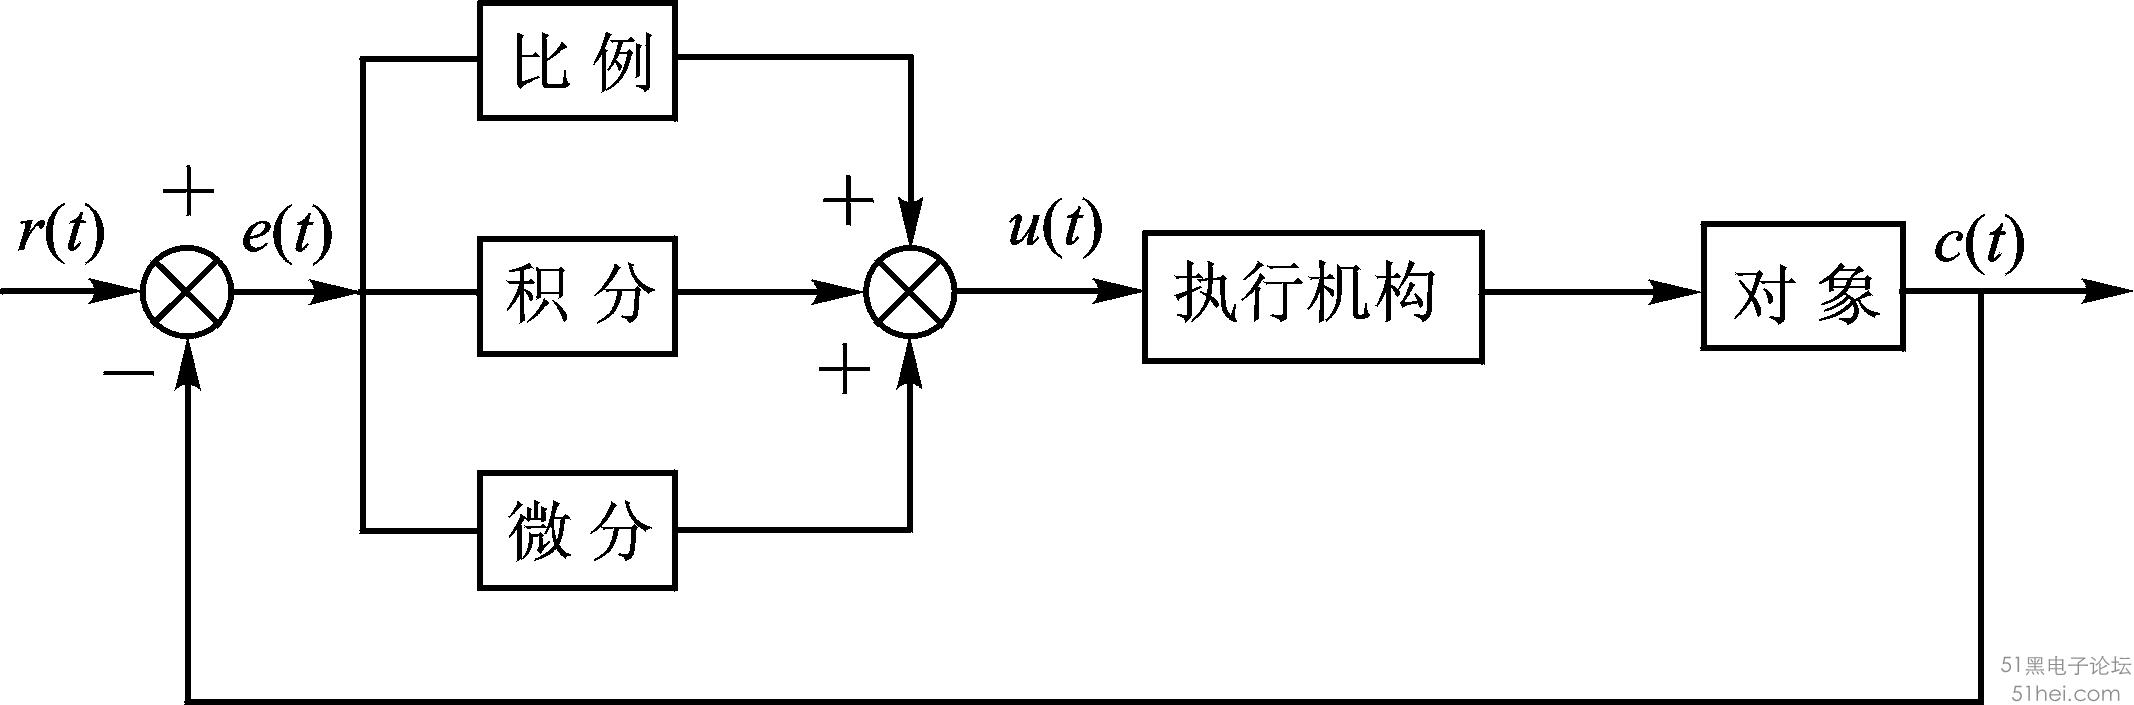
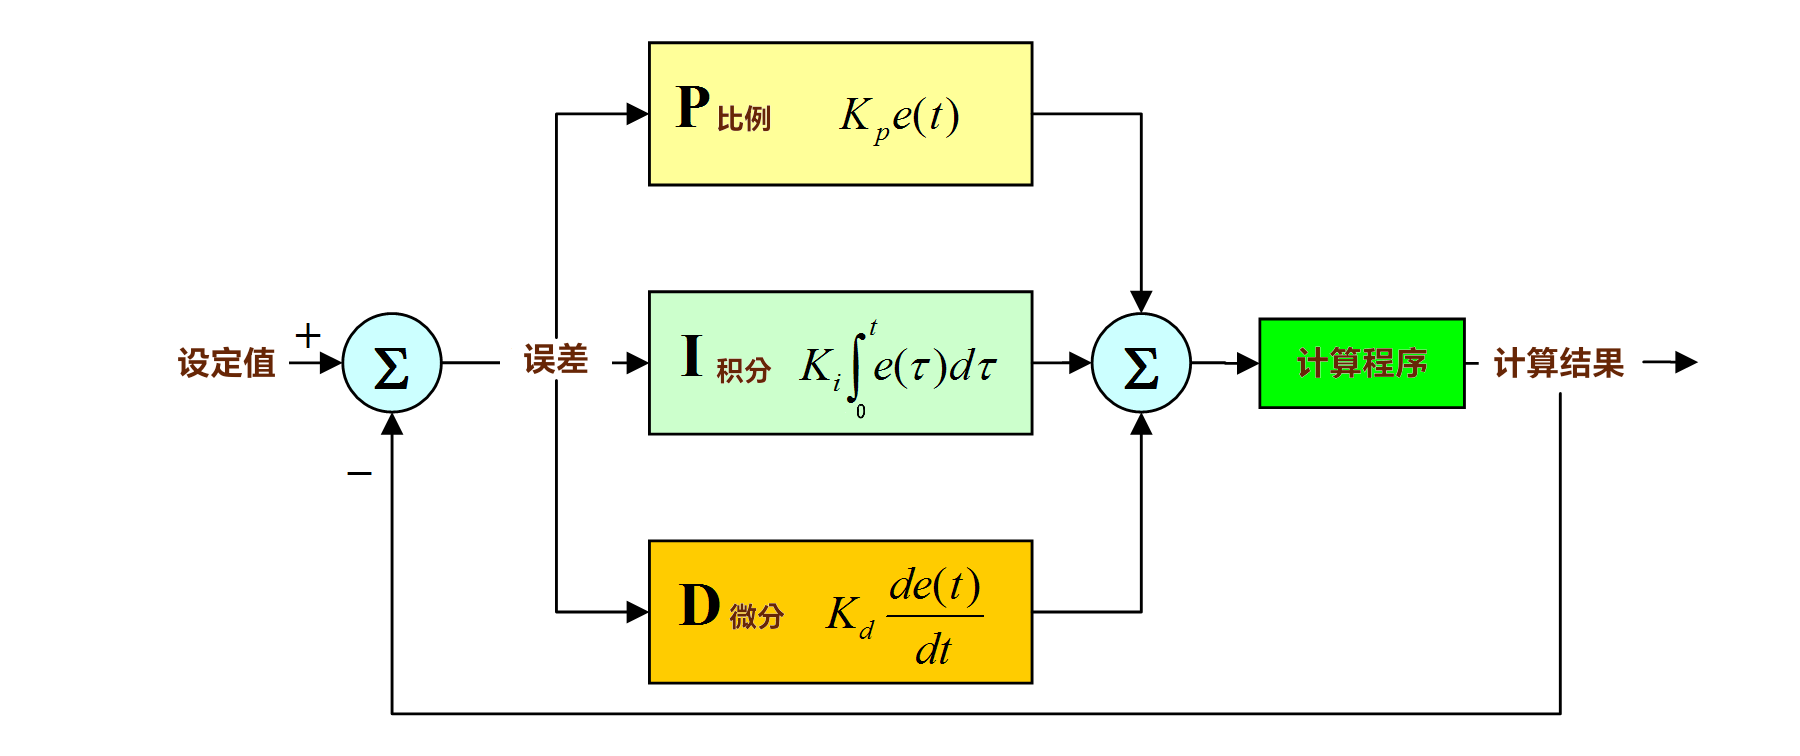
first commit

Changed region(s): [[0.0, 0.0, 1.0, 1.0], [0.0622, 0.2496, 0.0933, 0.2809]]

diff --git a/_posts/2024-10-08-pid.md b/_posts/2024-10-08-pid.md
@@ -41,7 +41,7 @@ Proportion-Integral-Differential (比例-积分-微分) 方法如下
 
 $$
 r(t) -c(t) = e(t) \\
-u(t) = K_p \times e + K_i \times \int_{0}^{\Delta t}e \Delta t + K_d \times \frac {\Delta e}{\Delta t} 
+u(t) = K_p \cdot e(t) + K_i \int_{0}^{t}e(\tau) d \tau + K_d \cdot \frac {de(t)}{dt} 
 $$
 
 （式中的 $t$ 为时间，$e$ 误差 即对时间积分、微分）如果没有误差，即 $e=0$，
@@ -70,7 +70,7 @@ $$
  - 在该 $K_i$ 值的基础上减少 **10**%；
  - 把 $K_d$ 值从 $0$ 开始慢慢增大，观察压力的反应速度是否在要求内。
 
- ![Alt pid](../assets/img/esp/pidcurve.gif)
+![Alt pid](../assets/img/esp/pidcurve.gif)
 
 
 ## 数据平滑
@@ -79,7 +79,7 @@ $$
 
 卡尔曼滤波是一种用于状态估计和数据融合的强大数学和统计工具，是一种递归的、最优的状态估计方法，通常用于处理含有噪声的时间序列数据，以估计系统的状态，同时提供估计的不确定性。
 
-![Alt kalman](../assets/img/esp/kalman.gif)
+![Alt kalman](../assets/img/esp/kalman.png)
 
 卡尔曼滤波的主要用途包括：
 
@@ -93,6 +93,43 @@ $$
 卡尔曼滤波基于状态空间模型，其中系统状态通过线性或非线性动态模型演化，并且由观测模型通过传感器观测进行测量。卡尔曼滤波使用贝叶斯估计方法来不断更新系统状态的估计，考虑了过去的状态估计和新的观测数据，以提供最优的状态估计结果。卡尔曼滤波的主要目标是最小化估计误差的方差，从而提供最优的状态估计结果。
 
 卡尔曼滤波有多个变种，包括扩展卡尔曼滤波（Extended Kalman Filter，EKF）和无迹卡尔曼滤波（Unscented Kalman Filter，UKF），用于处理非线性系统。
+
+#### 卡尔曼滤波需要的统计概念
+
+![Alt pid](../assets/img/esp/distribution.png)
+
+
+方差：用于衡量一组数据的离散程度。
+
+$$ \sigma^2 = \frac {\sum (x-\mu)^2}{N}
+$$
+
+
+标准差（Standard Deviation）：是离均差平方的算术平均数的算术平方根。
+
+$$ \sigma = \sqrt {\frac {\sum (x-\mu)^2}{N}}
+$$
+
+协方差（Covariance）：用于衡量两个变量的总体误差。
+ - 如果两个变量的期望值减去结果值
+    - 同一方向，即为正值。 
+    - 不同方向，即为负值。
+
+可以理解为：两个变量在变化过程中是同方向变化？还是反方向变化？同向或反向程度如何？
+
+$$
+\sigma(x,y) = \frac {1}{n-1} \sum_{i=1}^{n}(x_i - \bar{x})(y_i - \bar{y})
+$$
+
+相关系数：是用以反映变量之间相关关系密切程度的统计指标。
+
+$$
+p = \frac {Cov (x,y)}{\sigma_x \sigma_y}
+$$
+
+相关系数是协方差的归一化 (Normalization)， 消除了两个变量量纲/变化幅度不同的影响。单纯反映两个变量在每单位变化的相似程度。
+
+
 
 ### 小波变换（Wavelet Transform）
 
@@ -117,18 +154,42 @@ $$
 
 离散小波变换（DWT）是一种通过滤波和下采样操作将信号分解成不同尺度的方法。DWT通过将信号分解成高频和低频部分，然后继续对低频部分进行分解，从而实现多尺度分析。DWT的计算效率高，适用于实际工程应用。
 
+傅里叶变换 **FFT** 将信号分解为在整个序列中持续存在的振荡。小波变换 **WT** 执行类似的功能，但它们可以将信号分解为空间和时间局部振荡。
+
+小波是一种在时间上局部化的波状振荡；下面提供了一个例子。小波有两个基本属性：尺度和位置。尺度（或膨胀）定义了小波的拉伸或压缩程度。此属性与为波定义的频率有关。位置定义了小波在时间（或空间）中的位置。
+
+
+![Alt wavelet](../assets/img/esp/wt.png)
+
+
+上面表达式中的参数 a 设定了小波的尺度。如果降低它的值，小波看起来会更挤压。这反过来可以捕获高频信息。相反，增加 a 的值将拉伸小波并捕获低频信息。
+
+
+![Alt wavelet](../assets/img/esp/wt1.png)
+
+
+参数 b 定义小波的位置。减小 b 将使小波向左移动。增加 b 将使小波向右移动。位置很重要，因为与波不同，小波仅在短间隔内非零。此外，在分析信号时，不仅对其振荡感兴趣，还对这些振荡发生的位置感兴趣。
+
+![Alt wavelet](../assets/img/esp/wt2.png)
+
+
+基本思想是计算特定尺度和位置的信号中小波的含量。这就是卷积的真正含义。信号与一组不同尺度的小波进行卷积。
+
+如选择一个特定尺度的小波（比如下面的蓝色小波）。然后，将这个小波滑过整个信号（即改变其位置），在每个时间步骤中，将小波与信号相乘。这个乘积的乘积为提供了该特定时间步骤中该小波尺度的系数。然后增加小波尺度（例如红色和绿色小波）并重复该过程。
+
+![Alt wavelet](../assets/img/esp/wt3.gif)
+
+如果要从信号中提取什么特征形状，那么可以选择多种小波来最好地匹配该形状。
+
 ### Savitzky-Golay 滤波器
 
-Savitzky-Golay滤波是一种信号处理技术，用于对离散数据序列进行平滑和去噪。它是一种线性平滑滤波器，通过拟合多项式来估计数据点的平均值，以减小噪声和突发波动。Savitzky-Golay滤波器的主要思想是在局部窗口内对数据进行多项式拟合，从而获得平滑后的估计值。
+Savitzky-Golay 平滑滤波是光谱预处理中的常用滤波方法，<font color="#FF1000">其核心思想：是对一定长度窗口内的数据点进行k阶多项式拟合，从而得到拟合后的结果</font>。对它进行离散化处理后，S-G 滤波其实是<font color="#FF1000">一种移动窗口的加权平均算法</font>，但是其加权系数不是简单的常数窗口，而是通过在滑动窗口内对给定高阶多项式的最小二乘拟合得出。
 
 ![Alt golay](../assets/img/esp/golay.png)
-
-Savitzky-Golay 平滑滤波是光谱预处理中的常用滤波方法，<font color="#FF1000">其核心思想：是对一定长度窗口内的数据点进行k阶多项式拟合，从而得到拟合后的结果</font>。对它进行离散化处理后，S-G 滤波其实是一种移动窗口的加权平均算法，但是其加权系数不是简单的常数窗口，而是通过在滑动窗口内对给定高阶多项式的最小二乘拟合得出。
 
 Savitzky-Golay 平滑滤波被广泛地运用于数据流平滑除噪，是一种在时域内基于局域多项式最小二乘法拟合的滤波方法。这种滤波器的<font color="#FF1000">最大特点：在滤除噪声的同时可以确保信号的形状、宽度不变</font>。
 
 使用平滑滤波器对信号滤波时，实际上是拟合了信号中的低频成分，而将高频成分平滑出去了。如果噪声在高频端，那么滤波的结果就是去除了噪声，反之，若噪声在低频段，那么滤波的结果就是留下了噪声。
-总之，平滑滤波是光谱分析中常用的预处理方法之一。用 Savitzky-Golay 方法进行平滑滤波，可以提高光谱的平滑性，并降低噪音的干扰。S-G平滑滤波的效果，随着选取窗宽不同而不同，可以满足多种不同场合的需求。
 
 Savitzky-Golay滤波的主要特点包括：
 
@@ -142,5 +203,3 @@ Savitzky-Golay滤波的主要特点包括：
     - 适用于各种领域，包括信号处理、光谱分析、化学分析、生物医学数据处理和图像处理等。它特别适用于光谱数据，因为它可以去除仪器噪声和光谱线的窄化。
  - 平滑度可调
     - 通过调整窗口大小和多项式阶数，可以控制滤波器的平滑度。较大的窗口和较高的多项式阶数可以提供更平滑的结果，而较小的窗口和较低的多项式阶数可以更好地保留数据的细节。
-
-Savitzky-Golay滤波器是一种有效的数据平滑和去噪技术，它可以在许多领域用于处理具有噪声的数据，以提高数据的可解释性和分析能力。
